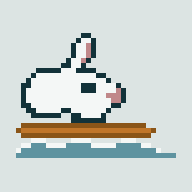
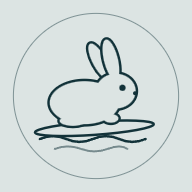
Add files via upload

diff --git a/docs/index.html b/docs/index.html
@@ -51,7 +51,7 @@
   }
   .barre h1 { font-family: Fraunces, Georgia, serif; font-size: 1.4rem; margin: 0; }
   /* Pixel art : pas de lissage, les carrés doivent rester des carrés. */
-  .lapin { display: block; height: 54px; width: auto; image-rendering: pixelated; }
+  .lapin { display: block; height: 58px; width: 58px; }
   .coin { display: flex; flex-direction: column; align-items: flex-end; gap: 0.35rem; }
   .maj { color: var(--galet); font-size: 0.82rem; }
 
@@ -249,92 +249,7 @@
 <body>
 
 <div class="barre">
-  <h1><svg class="lapin" viewBox="0 0 34 25" shape-rendering="crispEdges"
-         role="img" aria-label="Côte d'Opale, conditions de surf">
-      <rect x="13" y="0" width="2" height="1" fill="#123239"/>
-      <rect x="12" y="1" width="1" height="1" fill="#123239"/>
-      <rect x="13" y="1" width="2" height="1" fill="#F4F7F6"/>
-      <rect x="15" y="1" width="1" height="1" fill="#123239"/>
-      <rect x="11" y="2" width="1" height="1" fill="#123239"/>
-      <rect x="12" y="2" width="2" height="1" fill="#F4F7F6"/>
-      <rect x="14" y="2" width="1" height="1" fill="#C0888A"/>
-      <rect x="15" y="2" width="1" height="1" fill="#123239"/>
-      <rect x="11" y="3" width="1" height="1" fill="#123239"/>
-      <rect x="12" y="3" width="2" height="1" fill="#F4F7F6"/>
-      <rect x="14" y="3" width="1" height="1" fill="#C0888A"/>
-      <rect x="15" y="3" width="1" height="1" fill="#123239"/>
-      <rect x="11" y="4" width="1" height="1" fill="#123239"/>
-      <rect x="12" y="4" width="2" height="1" fill="#F4F7F6"/>
-      <rect x="14" y="4" width="1" height="1" fill="#C0888A"/>
-      <rect x="15" y="4" width="1" height="1" fill="#123239"/>
-      <rect x="10" y="5" width="1" height="1" fill="#123239"/>
-      <rect x="11" y="5" width="2" height="1" fill="#F4F7F6"/>
-      <rect x="13" y="5" width="1" height="1" fill="#C0888A"/>
-      <rect x="14" y="5" width="1" height="1" fill="#123239"/>
-      <rect x="9" y="6" width="2" height="1" fill="#123239"/>
-      <rect x="11" y="6" width="2" height="1" fill="#F4F7F6"/>
-      <rect x="13" y="6" width="1" height="1" fill="#123239"/>
-      <rect x="4" y="7" width="5" height="1" fill="#123239"/>
-      <rect x="9" y="7" width="3" height="1" fill="#F4F7F6"/>
-      <rect x="12" y="7" width="4" height="1" fill="#123239"/>
-      <rect x="3" y="8" width="1" height="1" fill="#123239"/>
-      <rect x="4" y="8" width="12" height="1" fill="#F4F7F6"/>
-      <rect x="16" y="8" width="2" height="1" fill="#123239"/>
-      <rect x="2" y="9" width="1" height="1" fill="#123239"/>
-      <rect x="3" y="9" width="15" height="1" fill="#F4F7F6"/>
-      <rect x="18" y="9" width="1" height="1" fill="#123239"/>
-      <rect x="1" y="10" width="2" height="1" fill="#123239"/>
-      <rect x="3" y="10" width="10" height="1" fill="#F4F7F6"/>
-      <rect x="13" y="10" width="3" height="1" fill="#123239"/>
-      <rect x="16" y="10" width="4" height="1" fill="#F4F7F6"/>
-      <rect x="20" y="10" width="1" height="1" fill="#123239"/>
-      <rect x="1" y="11" width="1" height="1" fill="#123239"/>
-      <rect x="2" y="11" width="11" height="1" fill="#F4F7F6"/>
-      <rect x="13" y="11" width="3" height="1" fill="#123239"/>
-      <rect x="16" y="11" width="4" height="1" fill="#F4F7F6"/>
-      <rect x="20" y="11" width="1" height="1" fill="#C0888A"/>
-      <rect x="21" y="11" width="1" height="1" fill="#123239"/>
-      <rect x="1" y="12" width="1" height="1" fill="#123239"/>
-      <rect x="2" y="12" width="16" height="1" fill="#F4F7F6"/>
-      <rect x="18" y="12" width="3" height="1" fill="#C0888A"/>
-      <rect x="21" y="12" width="1" height="1" fill="#123239"/>
-      <rect x="1" y="13" width="1" height="1" fill="#123239"/>
-      <rect x="2" y="13" width="17" height="1" fill="#F4F7F6"/>
-      <rect x="19" y="13" width="2" height="1" fill="#C0888A"/>
-      <rect x="21" y="13" width="1" height="1" fill="#123239"/>
-      <rect x="1" y="14" width="2" height="1" fill="#123239"/>
-      <rect x="3" y="14" width="16" height="1" fill="#F4F7F6"/>
-      <rect x="19" y="14" width="2" height="1" fill="#123239"/>
-      <rect x="2" y="15" width="2" height="1" fill="#123239"/>
-      <rect x="4" y="15" width="5" height="1" fill="#F4F7F6"/>
-      <rect x="9" y="15" width="2" height="1" fill="#123239"/>
-      <rect x="11" y="15" width="7" height="1" fill="#F4F7F6"/>
-      <rect x="18" y="15" width="1" height="1" fill="#123239"/>
-      <rect x="3" y="16" width="6" height="1" fill="#123239"/>
-      <rect x="11" y="16" width="2" height="1" fill="#123239"/>
-      <rect x="13" y="16" width="4" height="1" fill="#F4F7F6"/>
-      <rect x="17" y="16" width="1" height="1" fill="#123239"/>
-      <rect x="11" y="17" width="7" height="1" fill="#123239"/>
-      <rect x="1" y="18" width="25" height="1" fill="#8A5518"/>
-      <rect x="0" y="19" width="1" height="1" fill="#8A5518"/>
-      <rect x="1" y="19" width="26" height="1" fill="#C0762A"/>
-      <rect x="27" y="19" width="1" height="1" fill="#8A5518"/>
-      <rect x="1" y="20" width="26" height="1" fill="#8A5518"/>
-      <rect x="3" y="21" width="3" height="1" fill="#F4F7F6"/>
-      <rect x="11" y="21" width="4" height="1" fill="#F4F7F6"/>
-      <rect x="21" y="21" width="3" height="1" fill="#F4F7F6"/>
-      <rect x="1" y="22" width="2" height="1" fill="#F4F7F6"/>
-      <rect x="3" y="22" width="3" height="1" fill="#5E93A0"/>
-      <rect x="6" y="22" width="4" height="1" fill="#F4F7F6"/>
-      <rect x="10" y="22" width="5" height="1" fill="#5E93A0"/>
-      <rect x="15" y="22" width="5" height="1" fill="#F4F7F6"/>
-      <rect x="20" y="22" width="5" height="1" fill="#5E93A0"/>
-      <rect x="25" y="22" width="2" height="1" fill="#F4F7F6"/>
-      <rect x="0" y="23" width="1" height="1" fill="#F4F7F6"/>
-      <rect x="1" y="23" width="27" height="1" fill="#5E93A0"/>
-      <rect x="28" y="23" width="1" height="1" fill="#F4F7F6"/>
-      <rect x="0" y="24" width="32" height="1" fill="#5E93A0"/>
-    </svg></h1>
+  <h1><svg class="lapin" viewBox="0 0 120 120" role="img" aria-label="Côte d'Opale, conditions de surf"><circle cx="60" cy="60" r="56" fill="none" stroke="#123239" stroke-width=".7" opacity=".45"/><g transform="translate(-8.3 1.8) scale(1.12)"><path d="M27 78 Q35 74.5 43 78 T59 78 T75 78 T91 78" fill="none" stroke="#123239" stroke-width="1.5" stroke-linecap="round"/><path d="M36 84 Q44 81 52 84 T68 84 T80 84" fill="none" stroke="#123239" stroke-width="1.2" stroke-linecap="round" opacity=".5"/><ellipse cx="60" cy="71.5" rx="36" ry="4" transform="rotate(-4 60 71.5)" fill="#DCE4E3" stroke="#123239" stroke-width="1.5"/><g fill="#123239" stroke="#123239" stroke-width="3"><ellipse cx="63" cy="31" rx="4" ry="12" transform="rotate(-28 63 31)"/></g><g fill="#DCE4E3"><ellipse cx="63" cy="31" rx="4" ry="12" transform="rotate(-28 63 31)"/></g><g fill="#123239" stroke="#123239" stroke-width="3"><ellipse cx="70" cy="30" rx="4.2" ry="12.5" transform="rotate(-14 70 30)"/><ellipse cx="54" cy="56" rx="21" ry="13"/><ellipse cx="73" cy="49" rx="12" ry="10.5"/><ellipse cx="47" cy="67" rx="8" ry="3"/><ellipse cx="70" cy="65.5" rx="4.5" ry="2.6"/></g><g fill="#DCE4E3"><ellipse cx="70" cy="30" rx="4.2" ry="12.5" transform="rotate(-14 70 30)"/><ellipse cx="54" cy="56" rx="21" ry="13"/><ellipse cx="73" cy="49" rx="12" ry="10.5"/><ellipse cx="47" cy="67" rx="8" ry="3"/><ellipse cx="70" cy="65.5" rx="4.5" ry="2.6"/></g><circle cx="77" cy="47" r="1.9" fill="#123239"/><circle cx="84.6" cy="50.3" r="1.2" fill="#123239"/></g></svg></h1>
   <div class="coin">
     <div class="liens" id="liens"></div>
     <span class="maj" id="maj"></span>
